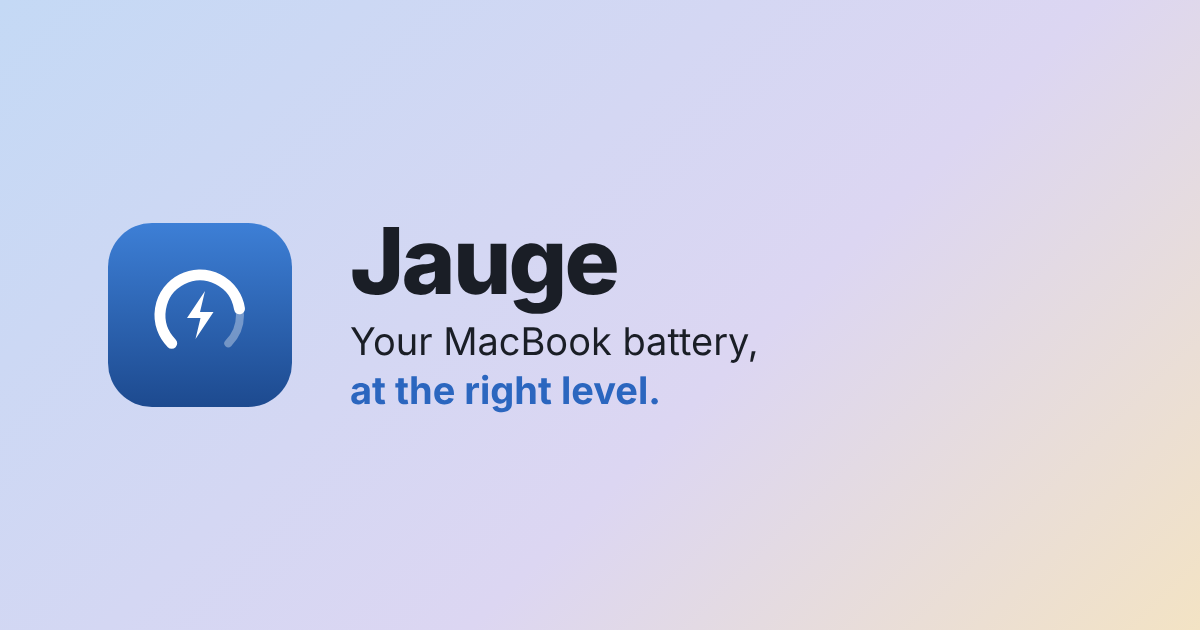
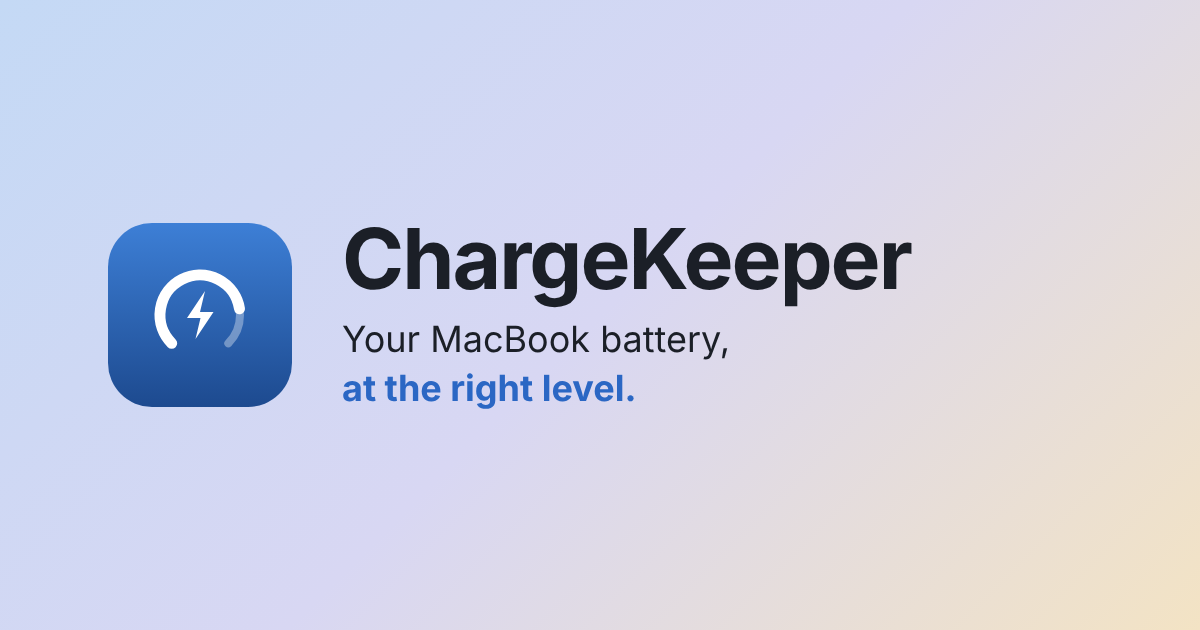
feat(site): rename to ChargeKeeper
Claude-Session: https://claude.ai/code/session_01D6m2qRPvcwwek6aZ8an8D3

Changed region(s): [[0.2775, 0.3619, 0.7708, 0.6635]]

diff --git a/site/index.html b/site/index.html
@@ -3,21 +3,21 @@
 <head>
 <meta charset="utf-8">
 <meta name="viewport" content="width=device-width, initial-scale=1">
-<title>Jauge: battery charge limiter for Apple silicon MacBooks</title>
+<title>ChargeKeeper: battery charge limiter for Apple silicon MacBooks</title>
 <meta name="description" content="Free, open source menu bar app that keeps your MacBook battery at the level you choose: charge limit, discharge while plugged in, calibration, heat protection, scheduling, Shortcuts. Signed and notarized, automatic updates.">
 <meta property="og:type" content="website">
-<meta property="og:title" content="Jauge: your MacBook battery, at the right level">
+<meta property="og:title" content="ChargeKeeper: your MacBook battery, at the right level">
 <meta property="og:description" content="Charge limit, discharge, calibration and scheduling from the menu bar. Free, open source, for Apple silicon MacBooks.">
 <meta property="og:locale" content="en_US">
 <meta property="og:locale:alternate" content="fr_FR">
-<meta property="og:url" content="https://vlor999.github.io/jauge/">
-<meta property="og:site_name" content="Jauge">
-<meta property="og:image" content="https://vlor999.github.io/jauge/og-image.png">
+<meta property="og:url" content="https://vlor999.github.io/chargekeeper/">
+<meta property="og:site_name" content="ChargeKeeper">
+<meta property="og:image" content="https://vlor999.github.io/chargekeeper/og-image.png">
 <meta property="og:image:width" content="1200">
 <meta property="og:image:height" content="630">
-<meta property="og:image:alt" content="Jauge: gauge logo and the tagline Your MacBook battery, at the right level.">
+<meta property="og:image:alt" content="ChargeKeeper: gauge logo and the tagline Your MacBook battery, at the right level.">
 <meta name="twitter:card" content="summary_large_image">
-<meta name="twitter:image" content="https://vlor999.github.io/jauge/og-image.png">
+<meta name="twitter:image" content="https://vlor999.github.io/chargekeeper/og-image.png">
 <link rel="icon" href="logo.svg" type="image/svg+xml">
 <link rel="icon" href="favicon.png" type="image/png" sizes="64x64">
 <meta name="color-scheme" content="light dark">
@@ -27,11 +27,11 @@
 <a class="skip" href="#download" data-i18n="skip">Skip to download</a>
 <header class="top">
   <div class="wrap">
-    <a class="brand" href="#top"><img src="logo.svg" width="28" height="28" alt="" aria-hidden="true">Jauge</a>
+    <a class="brand" href="#top"><img src="logo.svg" width="28" height="28" alt="" aria-hidden="true">ChargeKeeper</a>
     <nav aria-label="Main" data-i18n-attr="aria-label:nav">
       <a class="nl" href="#features" data-i18n="features">Features</a>
       <a class="nl" href="#faq">FAQ</a>
-      <a class="gh" href="https://github.com/Vlor999/jauge" aria-label="GitHub"><svg viewBox="0 0 16 16" aria-hidden="true"><path d="M8 0a8 8 0 0 0-2.53 15.59c.4.07.55-.17.55-.38v-1.33c-2.23.48-2.7-1.07-2.7-1.07-.36-.92-.89-1.17-.89-1.17-.73-.5.06-.49.06-.49.8.06 1.23.83 1.23.83.71 1.23 1.87.87 2.33.67.07-.52.28-.87.5-1.07-1.78-.2-3.65-.89-3.65-3.95 0-.87.31-1.59.82-2.15-.08-.2-.36-1.02.08-2.12 0 0 .67-.21 2.2.82a7.6 7.6 0 0 1 4 0c1.53-1.04 2.2-.82 2.2-.82.44 1.1.16 1.92.08 2.12.51.56.82 1.28.82 2.15 0 3.07-1.87 3.75-3.65 3.95.29.25.54.73.54 1.48v2.2c0 .21.15.46.55.38A8 8 0 0 0 8 0z"/></svg></a>
+      <a class="gh" href="https://github.com/Vlor999/chargekeeper" aria-label="GitHub"><svg viewBox="0 0 16 16" aria-hidden="true"><path d="M8 0a8 8 0 0 0-2.53 15.59c.4.07.55-.17.55-.38v-1.33c-2.23.48-2.7-1.07-2.7-1.07-.36-.92-.89-1.17-.89-1.17-.73-.5.06-.49.06-.49.8.06 1.23.83 1.23.83.71 1.23 1.87.87 2.33.67.07-.52.28-.87.5-1.07-1.78-.2-3.65-.89-3.65-3.95 0-.87.31-1.59.82-2.15-.08-.2-.36-1.02.08-2.12 0 0 .67-.21 2.2.82a7.6 7.6 0 0 1 4 0c1.53-1.04 2.2-.82 2.2-.82.44 1.1.16 1.92.08 2.12.51.56.82 1.28.82 2.15 0 3.07-1.87 3.75-3.65 3.95.29.25.54.73.54 1.48v2.2c0 .21.15.46.55.38A8 8 0 0 0 8 0z"/></svg></a>
       <span class="lang" role="group" aria-label="Language" data-i18n-attr="aria-label:lang"><button type="button" lang="en" aria-pressed="true">EN</button><button type="button" lang="fr" aria-pressed="false">FR</button></span>
       <a class="btn primary nav-dl" href="#download" data-i18n="dl">Download</a>
     </nav>
@@ -48,7 +48,7 @@
       <p class="meta"><span id="hero-ver"></span><span data-i18n="heroMeta">Apple silicon · macOS 14 or later · MIT License</span></p>
     </div>
     <figure class="shot">
-      <p class="sr" data-i18n="heroSr">Preview of the Jauge menu: battery at 80%, charging paused at the limit, the limit slider, discharge and full charge buttons, and the power flow from the adapter to the MacBook.</p>
+      <p class="sr" data-i18n="heroSr">Preview of the ChargeKeeper menu: battery at 80%, charging paused at the limit, the limit slider, discharge and full charge buttons, and the power flow from the adapter to the MacBook.</p>
       <div class="desk" aria-hidden="true">
         <div class="menubar"><span class="mb-ic"><svg viewBox="0 0 24 24"><path d="M6.34 17.66A8 8 0 1 1 17.66 17.66" fill="none" stroke="currentColor" stroke-width="1.6" stroke-linecap="round" opacity=".35"/><path d="M6.34 17.66A8 8 0 1 1 19.9 10.75" fill="none" stroke="currentColor" stroke-width="2.2" stroke-linecap="round"/><path d="M13 7.2 9.4 12.6h2.7l-1 4.2 3.6-5.4H12z" fill="currentColor"/></svg></span><span data-i18n="clock">Sun Oct 25 9:41 AM</span></div>
         <div class="pop">
@@ -85,16 +85,16 @@
     <h2 data-i18n="dl">Download</h2>
     <p id="release-meta" class="lead" aria-live="polite">Looking up the latest release…</p>
     <div id="downloads" class="dl-grid">
-      <noscript><a class="btn" href="https://github.com/Vlor999/jauge/releases/latest">See releases on GitHub</a></noscript>
+      <noscript><a class="btn" href="https://github.com/Vlor999/chargekeeper/releases/latest">See releases on GitHub</a></noscript>
     </div>
-    <p class="dl-note muted" data-i18n-html="first">On first launch, macOS asks you to allow Jauge's <strong>background service</strong> in System Settings &gt; General &gt; Login Items. That service is what talks to the battery.</p>
+    <p class="dl-note muted" data-i18n-html="first">On first launch, macOS asks you to allow ChargeKeeper's <strong>background service</strong> in System Settings &gt; General &gt; Login Items. That service is what talks to the battery.</p>
   </div>
 </section>
 
 <section id="features">
   <div class="wrap">
     <h2 data-i18n="features">Features</h2>
-    <p class="lead" data-i18n="flead">Keeping a battery between 50 and 80% slows its wear. Jauge does it for you, even when the app is closed.</p>
+    <p class="lead" data-i18n="flead">Keeping a battery between 50 and 80% slows its wear. ChargeKeeper does it for you, even when the app is closed.</p>
     <div class="feat">
       <article><h3 data-i18n="f1t">Charge limit</h3><p data-i18n="f1">Pick a limit from 20 to 100%. On macOS 26 and later, the Mac's own charge limit does the work from 80%.</p></article>
       <article><h3 data-i18n="f2t">Discharge</h3><p data-i18n="f2">Run from the battery while plugged in, down to your limit. Start it by hand or let it start on its own.</p></article>
@@ -103,7 +103,7 @@
       <article><h3 data-i18n="f5t">Heat protection</h3><p data-i18n="f5">Charging pauses above the temperature you set, checked in five-minute windows.</p></article>
       <article><h3 data-i18n="f6t">Power flow</h3><p data-i18n="f6">Watts from the adapter and the battery to the Mac, live. Warns you when the adapter is too weak.</p></article>
       <article><h3 data-i18n="f7t">Schedule</h3><p data-i18n="f7">Set a limit, calibrate, charge to 100% or toggle Low Power Mode at set times. Missed tasks can run on wake.</p></article>
-      <article><h3 data-i18n="f8t">Shortcuts and Terminal</h3><p data-i18n-html="f8">Every action in the Shortcuts app, and <code>jaugectl</code> on the command line.</p></article>
+      <article><h3 data-i18n="f8t">Shortcuts and Terminal</h3><p data-i18n-html="f8">Every action in the Shortcuts app, and <code>chargekeeperctl</code> on the command line.</p></article>
     </div>
     <h3 class="more" data-i18n="more">And also</h3>
     <ul class="chips">
@@ -122,8 +122,8 @@
 <section id="privacy" class="alt">
   <div class="wrap">
     <h2 data-i18n="privacy">Privacy</h2>
-    <p class="lead" data-i18n="pv">Jauge only goes online to check for updates on GitHub. No account, no telemetry, no personal data collected.</p>
-    <p><a href="https://github.com/Vlor999/jauge" data-i18n="pvl">Read the code (MIT license)</a></p>
+    <p class="lead" data-i18n="pv">ChargeKeeper only goes online to check for updates on GitHub. No account, no telemetry, no personal data collected.</p>
+    <p><a href="https://github.com/Vlor999/chargekeeper" data-i18n="pvl">Read the code (MIT license)</a></p>
   </div>
 </section>
 
@@ -132,7 +132,7 @@
     <h2 data-i18n="faq">Frequently asked questions</h2>
     <div class="faq">
       <details>
-        <summary data-i18n="q1">Why does Jauge need a background service?</summary>
+        <summary data-i18n="q1">Why does ChargeKeeper need a background service?</summary>
         <p data-i18n="a1">Changing how the battery charges requires administrator rights. A small service runs as root and does only that; the menu bar app talks to it through a local socket that only administrators can use. You approve it once in System Settings.</p>
       </details>
       <details>
@@ -141,23 +141,23 @@
       </details>
       <details>
         <summary data-i18n="q3">How does a limit below 80% work on macOS 26 and later?</summary>
-        <p data-i18n="a3">macOS's built-in limit stops at 80%. Below that, Jauge switches between battery and adapter around your limit, so the level moves by about 1%.</p>
+        <p data-i18n="a3">macOS's built-in limit stops at 80%. Below that, ChargeKeeper switches between battery and adapter around your limit, so the level moves by about 1%.</p>
       </details>
       <details>
         <summary data-i18n="q4">How do updates work?</summary>
-        <p data-i18n="a4">Jauge checks the latest GitHub release on startup, then every 6 hours. Each update is signed: the app checks the signature, installs it and restarts its service.</p>
+        <p data-i18n="a4">ChargeKeeper checks the latest GitHub release on startup, then every 6 hours. Each update is signed: the app checks the signature, installs it and restarts its service.</p>
       </details>
       <details>
         <summary data-i18n="q6">How much does it use?</summary>
         <p data-i18n="a6">With the menu closed, the app uses no CPU and about 20 to 30 MB of memory; the service about 30 MB. The power flow animation only runs while it is on screen.</p>
       </details>
       <details>
-        <summary data-i18n="q7">How do I use jaugectl from the Terminal?</summary>
-        <p data-i18n-html="a7">Homebrew puts it on your <code>PATH</code>. With the .dmg, link it once: <code>sudo ln -s /Applications/Jauge.app/Contents/MacOS/jaugectl /usr/local/bin/jaugectl</code>, then <code>jaugectl status</code>.</p>
+        <summary data-i18n="q7">How do I use chargekeeperctl from the Terminal?</summary>
+        <p data-i18n-html="a7">Homebrew puts it on your <code>PATH</code>. With the .dmg, link it once: <code>sudo ln -s /Applications/ChargeKeeper.app/Contents/MacOS/chargekeeperctl /usr/local/bin/chargekeeperctl</code>, then <code>chargekeeperctl status</code>.</p>
       </details>
       <details>
         <summary data-i18n="q5">How do I uninstall it?</summary>
-        <p data-i18n-html="a5">Quit Jauge and move it to the Trash. With Homebrew: <code>brew uninstall --zap jauge</code>.</p>
+        <p data-i18n-html="a5">Quit ChargeKeeper and move it to the Trash. With Homebrew: <code>brew uninstall --zap chargekeeper</code>.</p>
       </details>
     </div>
   </div>
@@ -166,15 +166,15 @@
 
 <footer class="foot">
   <div class="wrap">
-    <span data-i18n="indep">Jauge · independent project, not affiliated with Apple</span>
-    <span class="foot-links"><a href="https://github.com/Vlor999/jauge">GitHub</a><a href="https://github.com/Vlor999/jauge/releases" data-i18n="rels">Releases</a><a href="https://github.com/Vlor999/jauge/issues" data-i18n="bug">Report a bug</a><a href="https://github.com/Vlor999/jauge/blob/main/LICENSE" data-i18n="mit">MIT License</a></span>
+    <span data-i18n="indep">ChargeKeeper · independent project, not affiliated with Apple</span>
+    <span class="foot-links"><a href="https://github.com/Vlor999/chargekeeper">GitHub</a><a href="https://github.com/Vlor999/chargekeeper/releases" data-i18n="rels">Releases</a><a href="https://github.com/Vlor999/chargekeeper/issues" data-i18n="bug">Report a bug</a><a href="https://github.com/Vlor999/chargekeeper/blob/main/LICENSE" data-i18n="mit">MIT License</a></span>
     <details class="legal">
       <summary data-i18n="legal">Legal</summary>
-      <p data-i18n-html="lg1"><strong>Publisher.</strong> Vlor999, an individual, non-professional publisher. Contact: <a href="https://github.com/Vlor999/jauge/issues">GitHub issues</a>.</p>
+      <p data-i18n-html="lg1"><strong>Publisher.</strong> Vlor999, an individual, non-professional publisher. Contact: <a href="https://github.com/Vlor999/chargekeeper/issues">GitHub issues</a>.</p>
       <p data-i18n-html="lg2"><strong>Host.</strong> GitHub, Inc., 88 Colin P. Kelly Jr. Street, San Francisco, CA 94107, USA.</p>
       <p data-i18n-html="lg3"><strong>Privacy.</strong> The app only contacts GitHub, to check for updates: GitHub sees your IP address and macOS version in that request. No account, no telemetry. This site is hosted by GitHub Pages, which logs visits (see <a href="https://docs.github.com/site-policy/privacy-policies/github-general-privacy-statement">GitHub's privacy statement</a>). It fetches the latest version number from the GitHub API, sets no cookie and keeps your chosen language in your browser's local storage. Fonts are served from this site.</p>
-      <p data-i18n-html="lg4"><strong>Disclaimer.</strong> Jauge is provided as is, without warranty of any kind (MIT License). It uses undocumented macOS interfaces that may change. Use it at your own risk.</p>
-      <p data-i18n-html="lg5"><strong>Trademarks.</strong> Apple, Mac, MacBook, MagSafe and macOS are trademarks of Apple Inc., registered in the U.S. and other countries and regions. Jauge is an independent project, not affiliated with or endorsed by Apple.</p>
+      <p data-i18n-html="lg4"><strong>Disclaimer.</strong> ChargeKeeper is provided as is, without warranty of any kind (MIT License). It uses undocumented macOS interfaces that may change. Use it at your own risk.</p>
+      <p data-i18n-html="lg5"><strong>Trademarks.</strong> Apple, Mac, MacBook, MagSafe and macOS are trademarks of Apple Inc., registered in the U.S. and other countries and regions. ChargeKeeper is an independent project, not affiliated with or endorsed by Apple.</p>
     </details>
   </div>
 </footer>

diff --git a/site/app.js b/site/app.js
@@ -1,6 +1,6 @@
 (function () {
-  var REPO = 'Vlor999/jauge';
-  var BREW = 'brew install --cask vlor999/tap/jauge';
+  var REPO = 'Vlor999/chargekeeper';
+  var BREW = 'brew install --cask vlor999/tap/chargekeeper';
   var DOWNLOAD = '<path d="M11 3h2v9.6l3.3-3.3 1.4 1.4-5.7 5.7-5.7-5.7 1.4-1.4 3.3 3.3zM4 18h16v2H4z"/>';
   var LAPTOP = '<path fill-rule="evenodd" d="M5 4h14a1 1 0 0 1 1 1v10H4V5a1 1 0 0 1 1-1zm1 2v7h12V6zM1 16h22v1a2 2 0 0 1-2 2H3a2 2 0 0 1-2-2z"/>';
   // FR strings; English stays in index.html (data-i18n / data-i18n-html / data-i18n-attr="attr:key").
@@ -9,12 +9,12 @@
     tagline: 'La batterie de votre MacBook, <span class="accent">au bon niveau.</span>',
     lead: 'Limite de charge, décharge, calibration et planification, depuis la barre des menus. Gratuit, open source, sans compte.',
     how: 'Comment ça marche', heroMeta: 'Apple silicon · macOS 14 ou plus · Licence MIT',
-    heroSr: 'Aperçu du menu Jauge : batterie à 80 %, charge suspendue à la limite, curseur de limite, boutons de décharge et de charge à 100 %, et flux de puissance de l\'adaptateur vers le MacBook.',
+    heroSr: 'Aperçu du menu ChargeKeeper : batterie à 80 %, charge suspendue à la limite, curseur de limite, boutons de décharge et de charge à 100 %, et flux de puissance de l\'adaptateur vers le MacBook.',
     clock: 'dim. 25 oct. 09:41', paused: 'Charge suspendue', hw: 'Matériel 79 % · 29,1 °C', limit: 'Limite de charge',
     discharge: 'Décharge', full: 'Charger à 100 %', calib: 'Démarrer la calibration', pause: 'Suspendre', flow: 'Flux de puissance',
     mockcap: 'Aperçu, données fictives.',
-    first: 'Au premier lancement, macOS vous demande d\'autoriser le <strong>service en arrière-plan</strong> de Jauge dans Réglages Système &gt; Général &gt; Ouverture. C\'est ce service qui pilote la batterie.',
-    flead: 'Garder la batterie entre 50 et 80 % ralentit son usure. Jauge s\'en charge, même quand l\'app est fermée.',
+    first: 'Au premier lancement, macOS vous demande d\'autoriser le <strong>service en arrière-plan</strong> de ChargeKeeper dans Réglages Système &gt; Général &gt; Ouverture. C\'est ce service qui pilote la batterie.',
+    flead: 'Garder la batterie entre 50 et 80 % ralentit son usure. ChargeKeeper s\'en charge, même quand l\'app est fermée.',
     f1t: 'Limite de charge', f1: 'Choisissez une limite de 20 à 100 %. Sur macOS 26 et plus, la limite intégrée du Mac prend le relais dès 80 %.',
     f2t: 'Décharge', f2: 'Le Mac tourne sur batterie même branché, jusqu\'à votre limite. À la main ou automatiquement.',
     f3t: 'Plage de repos', f3: 'La recharge ne reprend qu\'une fois le niveau sous une plage, au lieu de compléter à chaque pour cent.',
@@ -22,32 +22,32 @@
     f5t: 'Protection thermique', f5: 'La charge s\'arrête au-dessus de la température choisie, vérifiée par fenêtres de cinq minutes.',
     f6t: 'Flux de puissance', f6: 'Les watts de l\'adaptateur et de la batterie vers le Mac, en direct. Alerte si l\'adaptateur est trop faible.',
     f7t: 'Planification', f7: 'Changer la limite, calibrer, charger à 100 % ou basculer l\'Économie d\'énergie à heure fixe. Les tâches manquées peuvent s\'exécuter au réveil.',
-    f8t: 'Raccourcis et Terminal', f8: 'Toutes les actions dans l\'app Raccourcis, et <code>jaugectl</code> en ligne de commande.',
+    f8t: 'Raccourcis et Terminal', f8: 'Toutes les actions dans l\'app Raccourcis, et <code>chargekeeperctl</code> en ligne de commande.',
     more: 'Et aussi', c1: 'Charge à 100 % ponctuelle', c2: 'Couleurs de la LED MagSafe', c3: 'Rester éveillé jusqu\'à la limite',
     c4: 'Niveau figé pendant la veille', c5: 'Pourcentage matériel de la batterie', c6: 'Fonctionne pour tous les comptes',
     c7: 'Anglais et français', c8: '0 % de processeur menu fermé',
     q6: 'Combien de ressources utilise-t-elle ?',
     a6: 'Menu fermé, l\'app n\'utilise pas de processeur et environ 20 à 30 Mo de mémoire ; le service environ 30 Mo. L\'animation du flux de puissance ne tourne que lorsqu\'elle est à l\'écran.',
-    q7: 'Comment utiliser jaugectl dans le Terminal ?',
-    a7: 'Homebrew l\'ajoute à votre <code>PATH</code>. Avec le .dmg, créez le lien une fois : <code>sudo ln -s /Applications/Jauge.app/Contents/MacOS/jaugectl /usr/local/bin/jaugectl</code>, puis <code>jaugectl status</code>.',
+    q7: 'Comment utiliser chargekeeperctl dans le Terminal ?',
+    a7: 'Homebrew l\'ajoute à votre <code>PATH</code>. Avec le .dmg, créez le lien une fois : <code>sudo ln -s /Applications/ChargeKeeper.app/Contents/MacOS/chargekeeperctl /usr/local/bin/chargekeeperctl</code>, puis <code>chargekeeperctl status</code>.',
     privacy: 'Confidentialité',
-    pv: 'Jauge ne va sur Internet que pour chercher les mises à jour sur GitHub. Pas de compte, pas de télémétrie, aucune donnée personnelle collectée.',
+    pv: 'ChargeKeeper ne va sur Internet que pour chercher les mises à jour sur GitHub. Pas de compte, pas de télémétrie, aucune donnée personnelle collectée.',
     pvl: 'Lire le code (licence MIT)', faq: 'Questions fréquentes',
-    q1: 'Pourquoi Jauge a-t-elle besoin d\'un service en arrière-plan ?',
+    q1: 'Pourquoi ChargeKeeper a-t-il besoin d\'un service en arrière-plan ?',
     a1: 'Modifier la charge de la batterie demande des droits administrateur. Un petit service tourne en root et ne fait que ça ; l\'app de la barre des menus lui parle par un socket local réservé aux administrateurs. Vous l\'autorisez une seule fois dans Réglages Système.',
     q2: 'Quels Mac sont compatibles ?', a2: 'Les MacBook Apple silicon, sous macOS 14 ou plus. Les Mac Intel ne sont pas pris en charge.',
     q3: 'Comment marche une limite sous 80 % sur macOS 26 et plus ?',
-    a3: 'La limite intégrée de macOS s\'arrête à 80 %. En dessous, Jauge alterne batterie et adaptateur autour de votre limite : le niveau varie d\'environ 1 %.',
+    a3: 'La limite intégrée de macOS s\'arrête à 80 %. En dessous, ChargeKeeper alterne batterie et adaptateur autour de votre limite : le niveau varie d\'environ 1 %.',
     q4: 'Comment se font les mises à jour ?',
-    a4: 'Jauge vérifie la dernière version GitHub au démarrage, puis toutes les 6 heures. Chaque mise à jour est signée : l\'app vérifie la signature, l\'installe et redémarre son service.',
-    q5: 'Comment la désinstaller ?', a5: 'Quittez Jauge et mettez-la à la corbeille. Avec Homebrew : <code>brew uninstall --zap jauge</code>.',
-    indep: 'Jauge · projet indépendant, non affilié à Apple', rels: 'Versions', bug: 'Signaler un bug', mit: 'Licence MIT',
+    a4: 'ChargeKeeper vérifie la dernière version GitHub au démarrage, puis toutes les 6 heures. Chaque mise à jour est signée : l\'app vérifie la signature, l\'installe et redémarre son service.',
+    q5: 'Comment le désinstaller ?', a5: 'Quittez ChargeKeeper et mettez-le à la corbeille. Avec Homebrew : <code>brew uninstall --zap chargekeeper</code>.',
+    indep: 'ChargeKeeper · projet indépendant, non affilié à Apple', rels: 'Versions', bug: 'Signaler un bug', mit: 'Licence MIT',
     legal: 'Mentions légales',
-    lg1: '<strong>Éditeur.</strong> Vlor999, particulier, éditeur non professionnel. Contact : <a href="https://github.com/Vlor999/jauge/issues">tickets GitHub</a>.',
+    lg1: '<strong>Éditeur.</strong> Vlor999, particulier, éditeur non professionnel. Contact : <a href="https://github.com/Vlor999/chargekeeper/issues">tickets GitHub</a>.',
     lg2: '<strong>Hébergeur.</strong> GitHub, Inc., 88 Colin P. Kelly Jr. Street, San Francisco, CA 94107, États-Unis.',
     lg3: '<strong>Confidentialité.</strong> L\'app ne contacte que GitHub, pour chercher les mises à jour : GitHub voit votre adresse IP et votre version de macOS dans cette requête. Pas de compte, pas de télémétrie. Ce site est hébergé par GitHub Pages, qui journalise les visites (voir la <a href="https://docs.github.com/site-policy/privacy-policies/github-general-privacy-statement">déclaration de confidentialité de GitHub</a>). Il récupère le dernier numéro de version auprès de l\'API GitHub, ne dépose aucun cookie et garde la langue choisie dans le stockage local de votre navigateur. Les polices sont servies par ce site.',
-    lg4: '<strong>Avertissement.</strong> Jauge est fournie telle quelle, sans aucune garantie (licence MIT). Elle utilise des interfaces de macOS non documentées, susceptibles de changer. Utilisation à vos risques.',
-    lg5: '<strong>Marques.</strong> Apple, Mac, MacBook, MagSafe et macOS sont des marques d\'Apple Inc., déposées aux États-Unis et dans d\'autres pays et régions. Jauge est un projet indépendant, ni affilié à Apple ni approuvé par Apple.'
+    lg4: '<strong>Avertissement.</strong> ChargeKeeper est fourni tel quel, sans aucune garantie (licence MIT). Il utilise des interfaces de macOS non documentées, susceptibles de changer. Utilisation à vos risques.',
+    lg5: '<strong>Marques.</strong> Apple, Mac, MacBook, MagSafe et macOS sont des marques d\'Apple Inc., déposées aux États-Unis et dans d\'autres pays et régions. ChargeKeeper est un projet indépendant, ni affilié à Apple ni approuvé par Apple.'
   };
   var lang, EN = {};
   try { lang = localStorage.getItem('lang'); } catch (e) {}

diff --git a/site/style.css b/site/style.css
@@ -24,6 +24,7 @@ nav{display:flex;align-items:center;gap:20px}nav a{color:var(--muted);text-decor
 .lang{display:flex;gap:2px;padding:2px;border:1px solid var(--line);border-radius:8px;background:var(--card)}.lang button{font:inherit;font-size:12px;font-weight:600;padding:1px 8px;border:0;border-radius:6px;background:none;color:var(--muted);cursor:pointer}.lang button[aria-pressed=true]{background:var(--accent);color:var(--accent-fg)}
 .nav-dl{min-height:0;padding:6px 14px;font-size:14px}
 @media(max-width:640px){nav{gap:12px}nav .nl,nav .gh{display:none}}
+@media(max-width:360px){nav .nav-dl{display:none}}
 /* type, sections */
 h1{font-size:clamp(2rem,1.4rem + 2.6vw,3.25rem);line-height:1.15;letter-spacing:-.02em;margin:0 0 1rem;text-wrap:balance}
 h2{font-size:clamp(1.5rem,1.2rem + 1.2vw,2rem);line-height:1.2;margin:0 0 1rem;text-wrap:balance}
@@ -76,7 +77,7 @@ code{font:13px/1.5 'JetBrains Mono',monospace}
 .foot .wrap{display:flex;justify-content:space-between;flex-wrap:wrap;gap:8px 20px;padding-top:2rem;padding-bottom:2rem}
 .foot-links{display:flex;flex-wrap:wrap;gap:8px 20px}
 .legal{flex-basis:100%;max-width:48rem}.legal summary{cursor:pointer;width:fit-content}.legal p{margin:.75rem 0 0}.legal strong{color:var(--fg);font-weight:600}
-/* Hero mock: menu bar + Jauge popover (static) */
+/* Hero mock: menu bar + ChargeKeeper popover (static) */
 :root{--flow-a:color-mix(in srgb,#3d7fd6 22%,transparent);--dash:rgb(255 255 255/.45)}
 .desk{border:1px solid var(--line);border-radius:.75rem;background:var(--desk);box-shadow:0 24px 60px -24px var(--shadow);overflow:hidden;padding-bottom:28px}
 .menubar{display:flex;justify-content:flex-end;align-items:center;gap:14px;height:28px;padding:0 14px;background:color-mix(in srgb,var(--card) 70%,transparent);backdrop-filter:blur(10px);font:500 13px -apple-system,system-ui,sans-serif}
